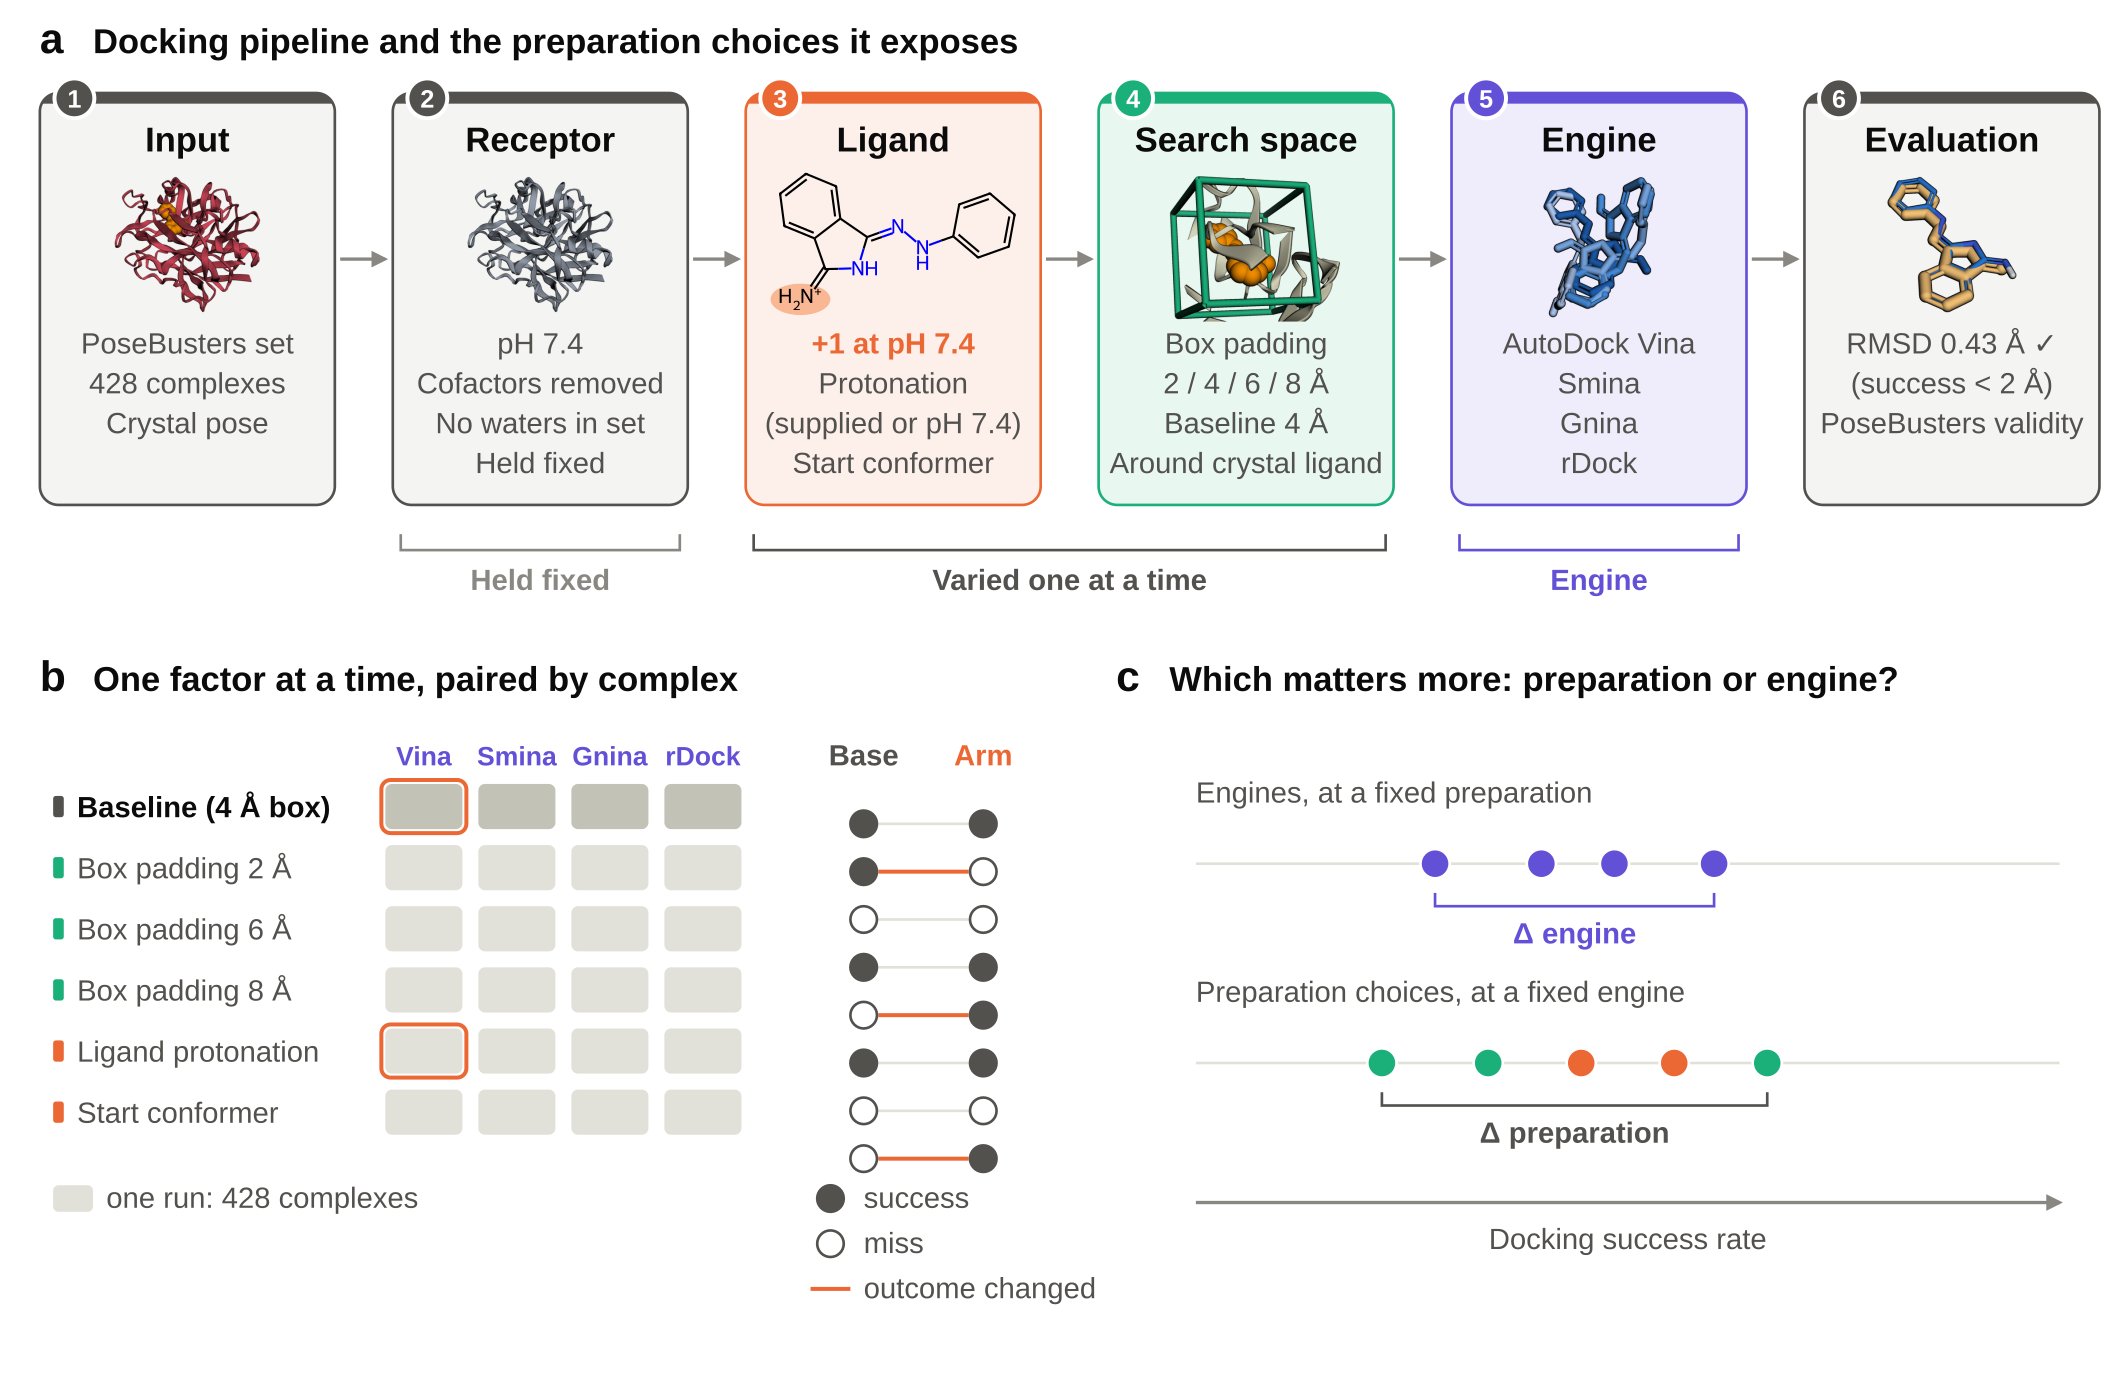
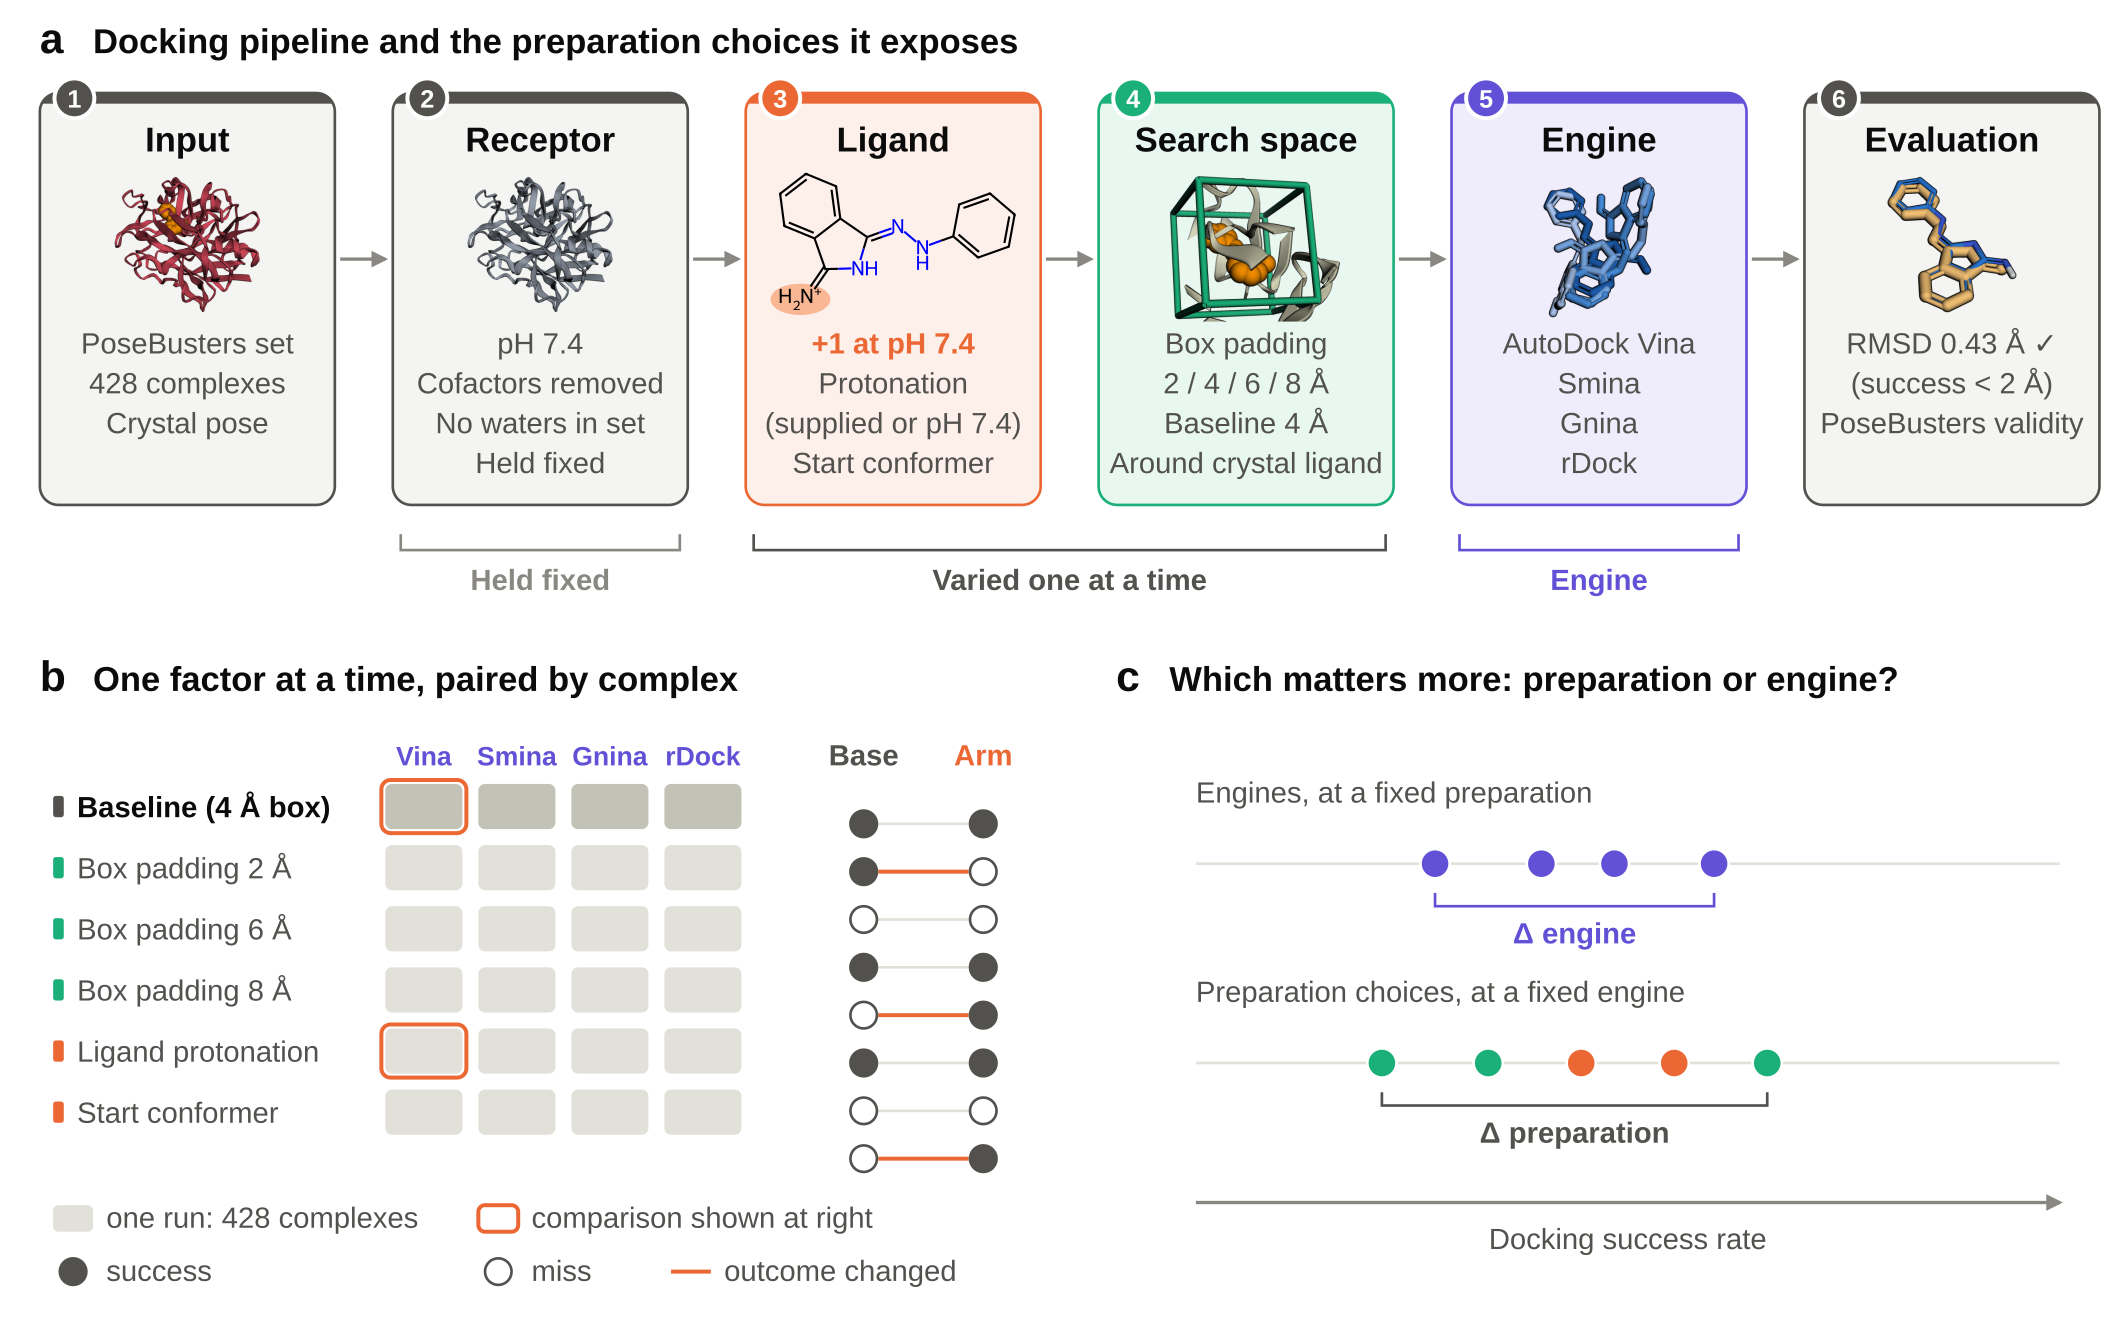
Figure 1: panel b legend in two aligned rows, explaining the highlighted comparison

diff --git a/scripts/make_concept_figure.py b/scripts/make_concept_figure.py
@@ -34,7 +34,7 @@ parser.add_argument(
 )
 ARGS = parser.parse_args()
 
-WIDTH, HEIGHT = 1600, 1040
+WIDTH, HEIGHT = 1600, 1000
 FONT = "Arial, Helvetica, sans-serif"
 
 # Light-mode palette: ink for text, categorical slots for the stages (same as analysis/figures).
@@ -509,9 +509,7 @@ for i in (0, 4):
         f'fill="none" stroke="{LIGAND}" stroke-width="3"/>'
     )
 # Below both the arm list and the 8 paired-outcome rows drawn next to it (36 px apart).
-legend_y = max(MY + len(arms) * PITCH_Y, MY + 30 + 7 * 36 + 10) + 30
-add(f'<rect x="40" y="{legend_y - 20}" width="30" height="20" rx="4" fill="{GRID}"/>')
-text(80, legend_y - 3, "one run: 428 complexes", BODY, INK_2)
+legend_y = max(MY + len(arms) * PITCH_Y, MY + 30 + 7 * 36 + 10) + 45
 
 # Paired outcomes for the highlighted comparison.
 PX0, PX1, DY0 = 650, 740, MY + 30
@@ -528,20 +526,26 @@ for k, (a, b) in enumerate(outcomes):
     for x, hit in ((PX0, a), (PX1, b)):
         fill = INK_2 if hit else "#ffffff"
         add(f'<circle cx="{x}" cy="{y}" r="10" fill="{fill}" stroke="{INK_2}" stroke-width="2"/>')
-# Legend: symbols centred on one column, labels starting on another.
-KEY_X, LABEL_X, ROW = 625, 650, 34
-key_rows = [
-    (f'<circle cx="{KEY_X}" cy="{{y}}" r="10" fill="{INK_2}" stroke="{INK_2}" stroke-width="2"/>',
-     "success"),
-    (f'<circle cx="{KEY_X}" cy="{{y}}" r="10" fill="#ffffff" stroke="{INK_2}" stroke-width="2"/>',
-     "miss"),
-    (f'<line x1="{KEY_X - 15}" y1="{{y}}" x2="{KEY_X + 15}" y2="{{y}}" stroke="{LIGAND}" '
-     f'stroke-width="3"/>', "outcome changed"),
-]  # fmt: skip
-for k, (symbol, label) in enumerate(key_rows):
-    y = legend_y - 10 + k * ROW
-    add(symbol.format(y=y))
-    text(LABEL_X, y + 7, label, BODY, INK_2)
+# Legend in two rows across the panel: the grid's symbols, then the paired outcomes'.
+# Symbols are centred on each row; the columns of symbols and labels line up.
+COL1, COL2, COL3 = 55, 375, 520  # symbol centres; labels start 25 px to the right
+y = legend_y - 10
+add(f'<rect x="{COL1 - 15}" y="{y - 10}" width="30" height="20" rx="4" fill="{GRID}"/>')
+text(COL1 + 25, y + 7, "one run: 428 complexes", BODY, INK_2)
+add(
+    f'<rect x="{COL2 - 15}" y="{y - 10}" width="30" height="20" rx="5" fill="none" '
+    f'stroke="{LIGAND}" stroke-width="3"/>'
+)
+text(COL2 + 25, y + 7, "comparison shown at right", BODY, INK_2)
+y += 40
+for x, fill, label in ((COL1, INK_2, "success"), (COL2, "#ffffff", "miss")):
+    add(f'<circle cx="{x}" cy="{y}" r="10" fill="{fill}" stroke="{INK_2}" stroke-width="2"/>')
+    text(x + 25, y + 7, label, BODY, INK_2)
+add(
+    f'<line x1="{COL3 - 15}" y1="{y}" x2="{COL3 + 15}" y2="{y}" stroke="{LIGAND}" '
+    f'stroke-width="3"/>'
+)
+text(COL3 + 25, y + 7, "outcome changed", BODY, INK_2)
 
 # ---------------------------------------------------------------- panel c: question
 CX0 = 880
